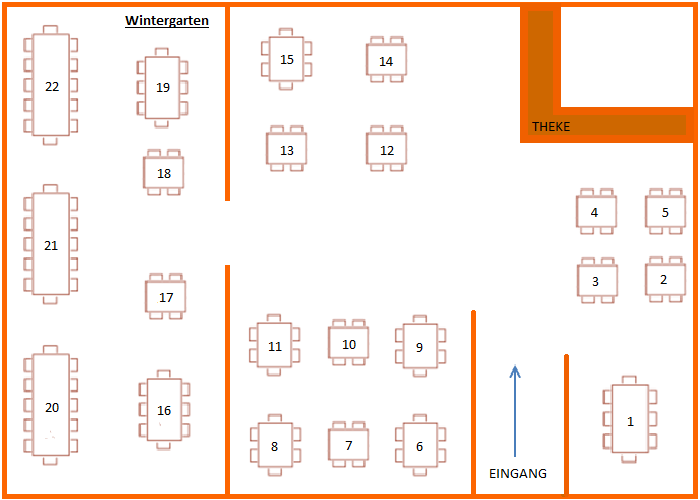
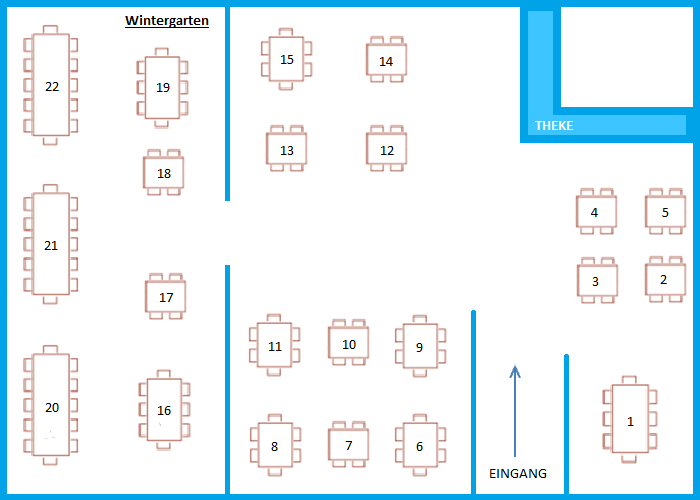
Nix Neues, nur anderes Farbschema im Saalplan

Changed region(s): [[0.0, 0.0, 1.0, 1.0]]

diff --git a/reservierung.html b/reservierung.html
@@ -1,4 +1,13 @@
 <!DOCTYPE html>
+
+<?php
+$db = mysqli_connect("localhost", "root", "", "bla");
+if(!$db)
+{
+  exit("Verbindungsfehler: ".mysqli_connect_error());
+}
+?>
+
 <html lang="de">
 
 <head>
@@ -202,9 +211,57 @@
 
 </div>
 
+<!--
+<img id="my_image" style="display: none;" src="my.png" width="924" height="330" border="0" usemap="#map" />
+
+<map name="map" id="map">
+    <area shape="poly" coords="774,49,810,21,922,130,920,222,894,212,885,156,874,146" href="#mylink" />
+    <area shape="poly" coords="649,20,791,157,805,160,809,217,851,214,847,135,709,1,666,3" href="#myotherlink" />
+</map>
+
+<script>
+$(function(){
+    var image_is_loaded = false;
+    $("#my_image").load(function() {
+        $(this).data('width', $(this).attr('width')).data('height', $(this).attr('height'));
+        $($(this).attr('usemap')+" area").each(function(){
+            $(this).data('coords', $(this).attr('coords'));
+        });
+
+        $(this).css('width', '100%').css('height','auto').show();
+
+        image_is_loaded = true;
+        $(window).trigger('resize');
+    });
+
+
+    function ratioCoords (coords, ratio) {
+        coord_arr = coords.split(",");
+
+        for(i=0; i < coord_arr.length; i++) {
+            coord_arr[i] = Math.round(ratio * coord_arr[i]);
+        }
+
+        return coord_arr.join(',');
+    }
+    $(window).on('resize', function(){
+        if (image_is_loaded) {
+            var img = $("#my_image");
+            var ratio = img.width()/img.data('width');
+
+            $(img.attr('usemap')+" area").each(function(){
+                console.log('1: '+$(this).attr('coords'));
+                $(this).attr('coords', ratioCoords($(this).data('coords'), ratio));
+            });
+        }
+    });
+});
+</script>
 
 
 
+
+-->
 
 <body>
 
